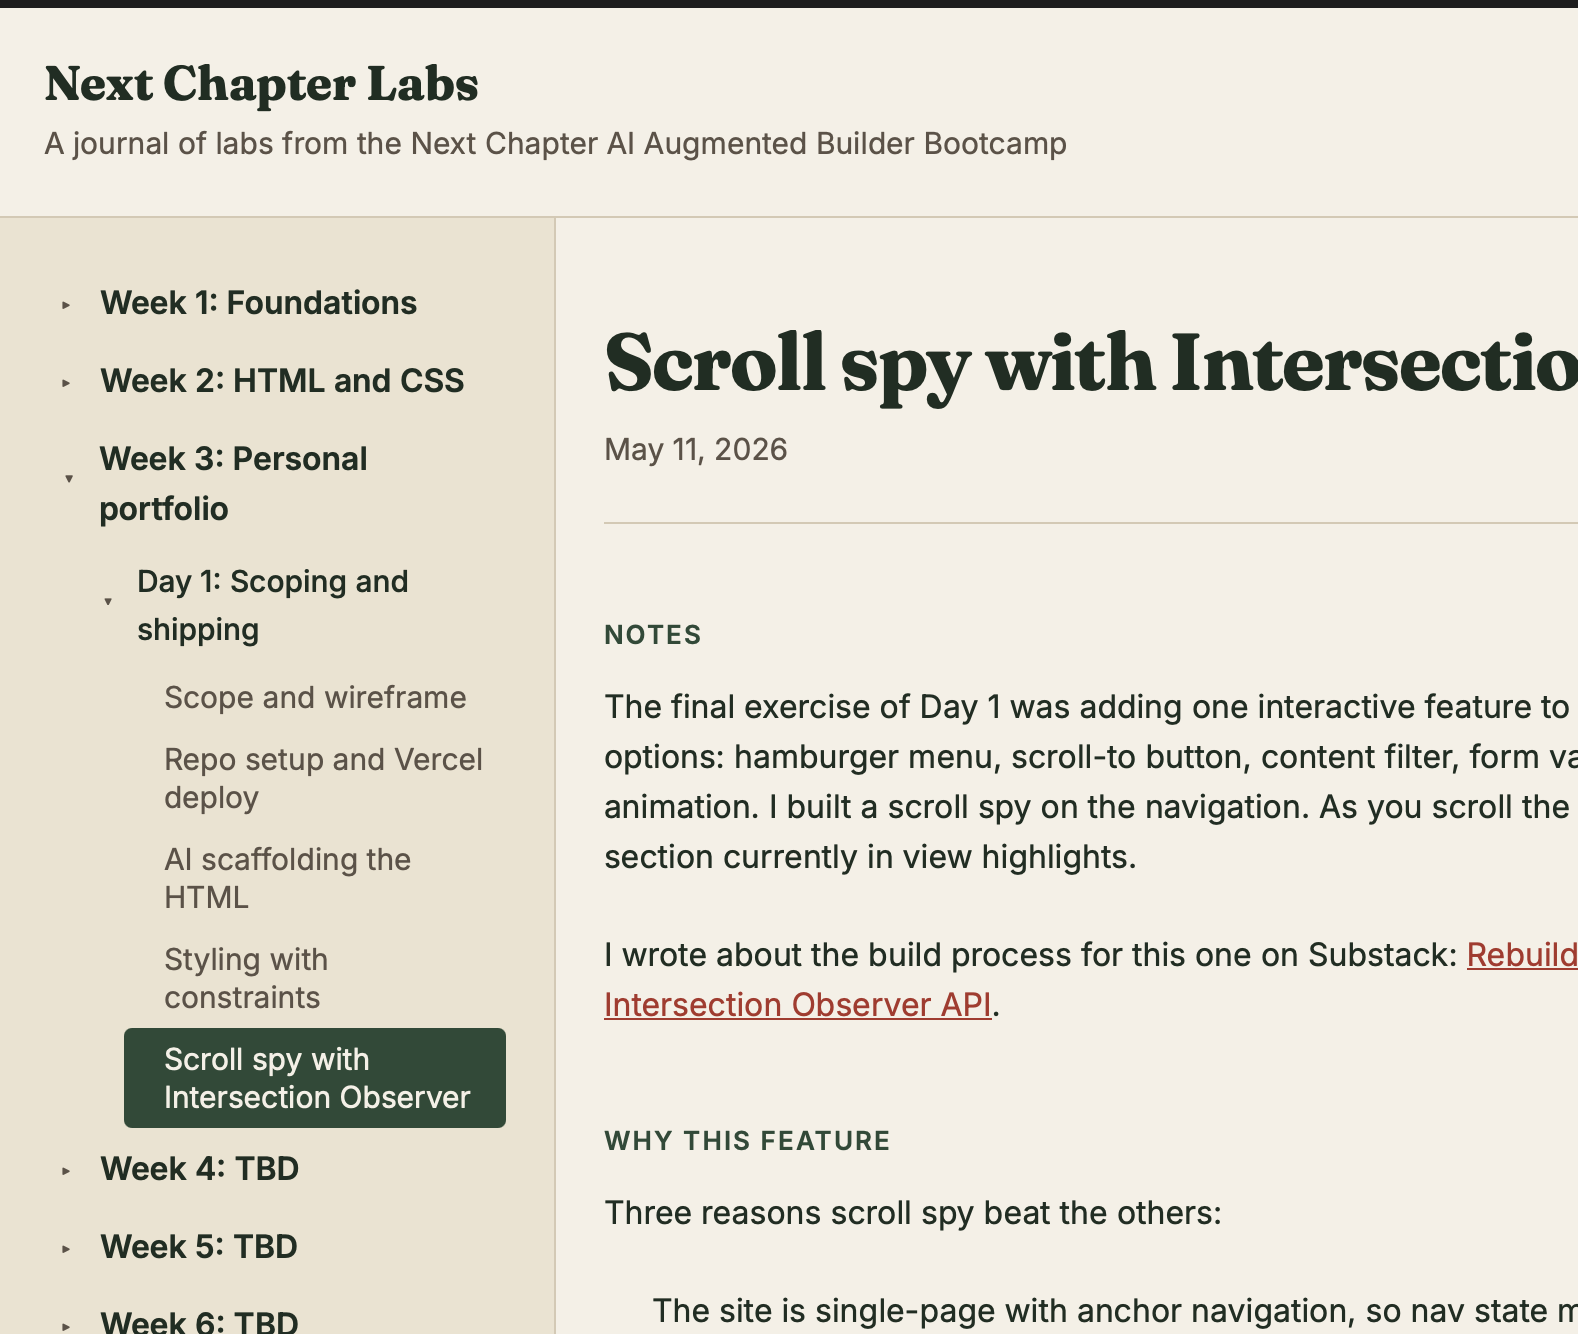
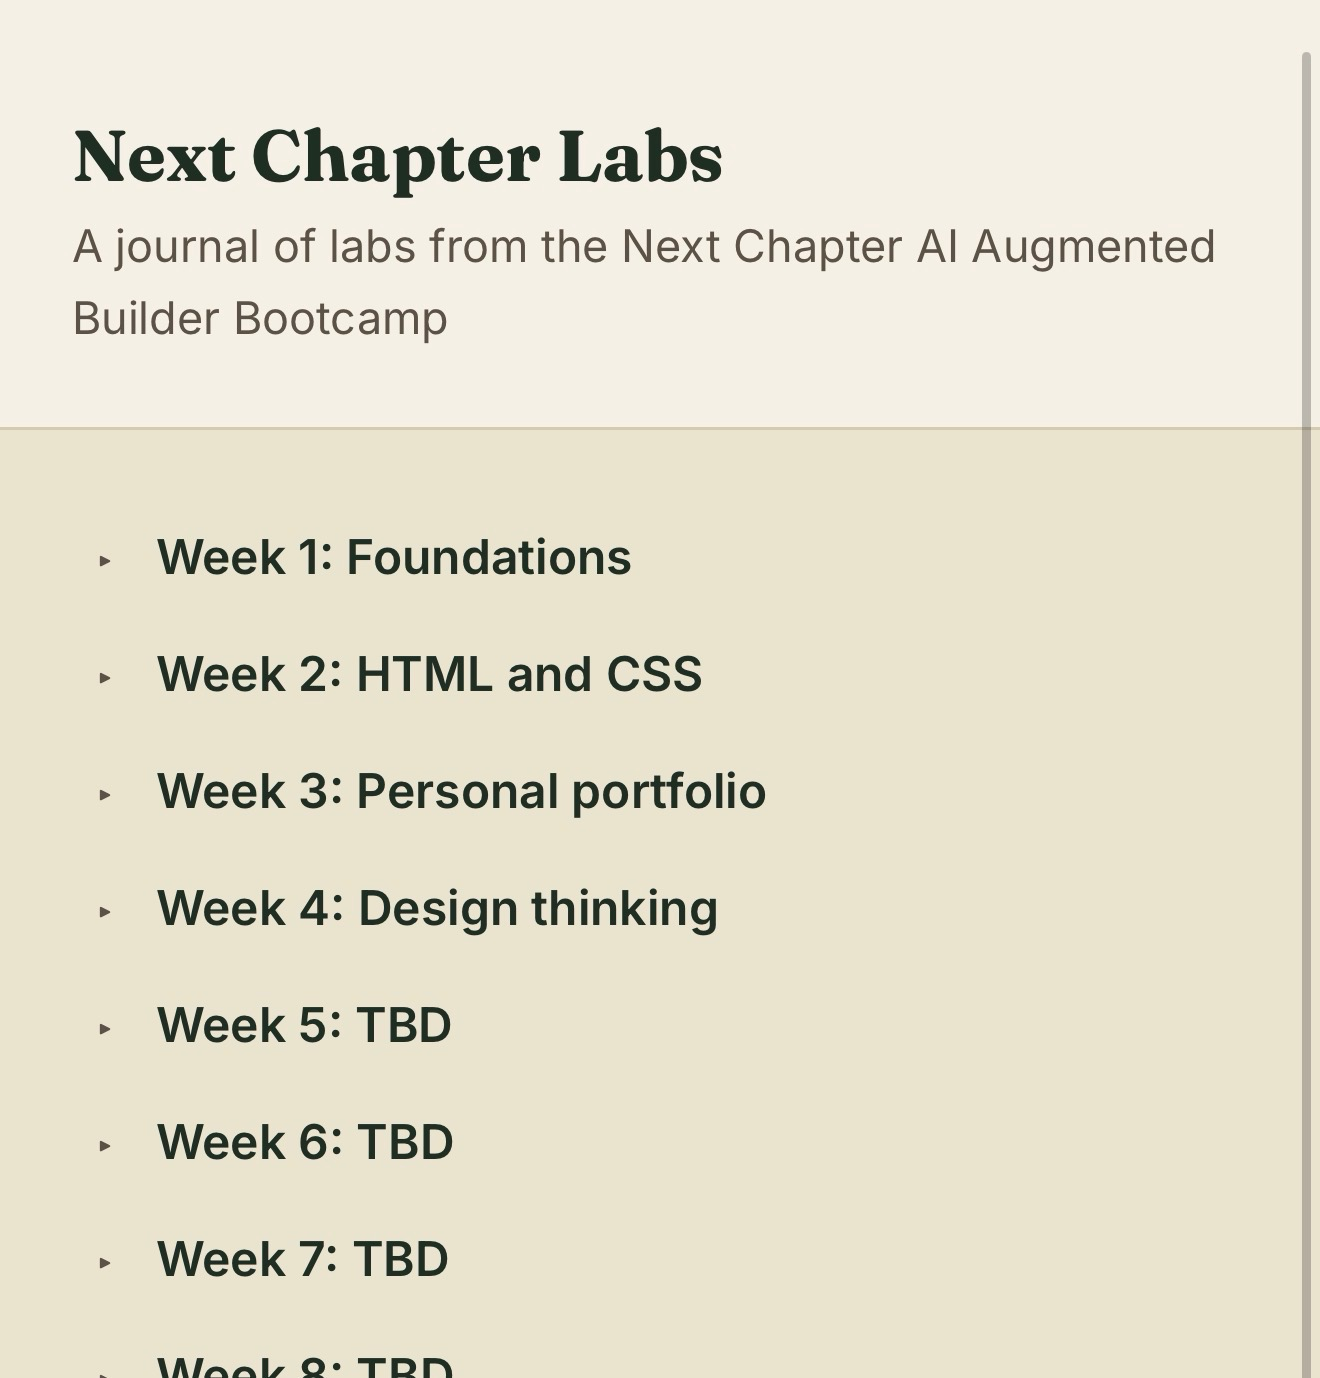
Update projects section: square cards and new Labs screenshot
- Change project image aspect-ratio from 16/10 to 1/1 to match article card dimensions
- Replace Next Chapter Labs screenshot with current sidebar view
- Update alt text for new Labs image

diff --git a/index.html b/index.html
@@ -75,7 +75,7 @@
                     <a href="https://philanthony.dev/labs/" class="project__link" target="_blank" rel="noopener noreferrer">
                         <div class="project__media">
                             <img src="images/labsnc.png"
-                                alt="Next Chapter Labs interface showing a sidebar tree of weeks and days with a lab writeup in the main pane."
+                                alt="Next Chapter Labs sidebar showing weeks 1 through 8 of the AI Augmented Builder Bootcamp."
                                 class="project__image">
                         </div>
                         <h3 class="project__title">Next Chapter Labs</h3>

diff --git a/style.css b/style.css
@@ -254,7 +254,7 @@ img {
 
 .project__image {
     width: 100%;
-    aspect-ratio: 16 / 10;
+    aspect-ratio: 1 / 1;
     object-fit: cover;
     object-position: top;
     border-radius: 8px;